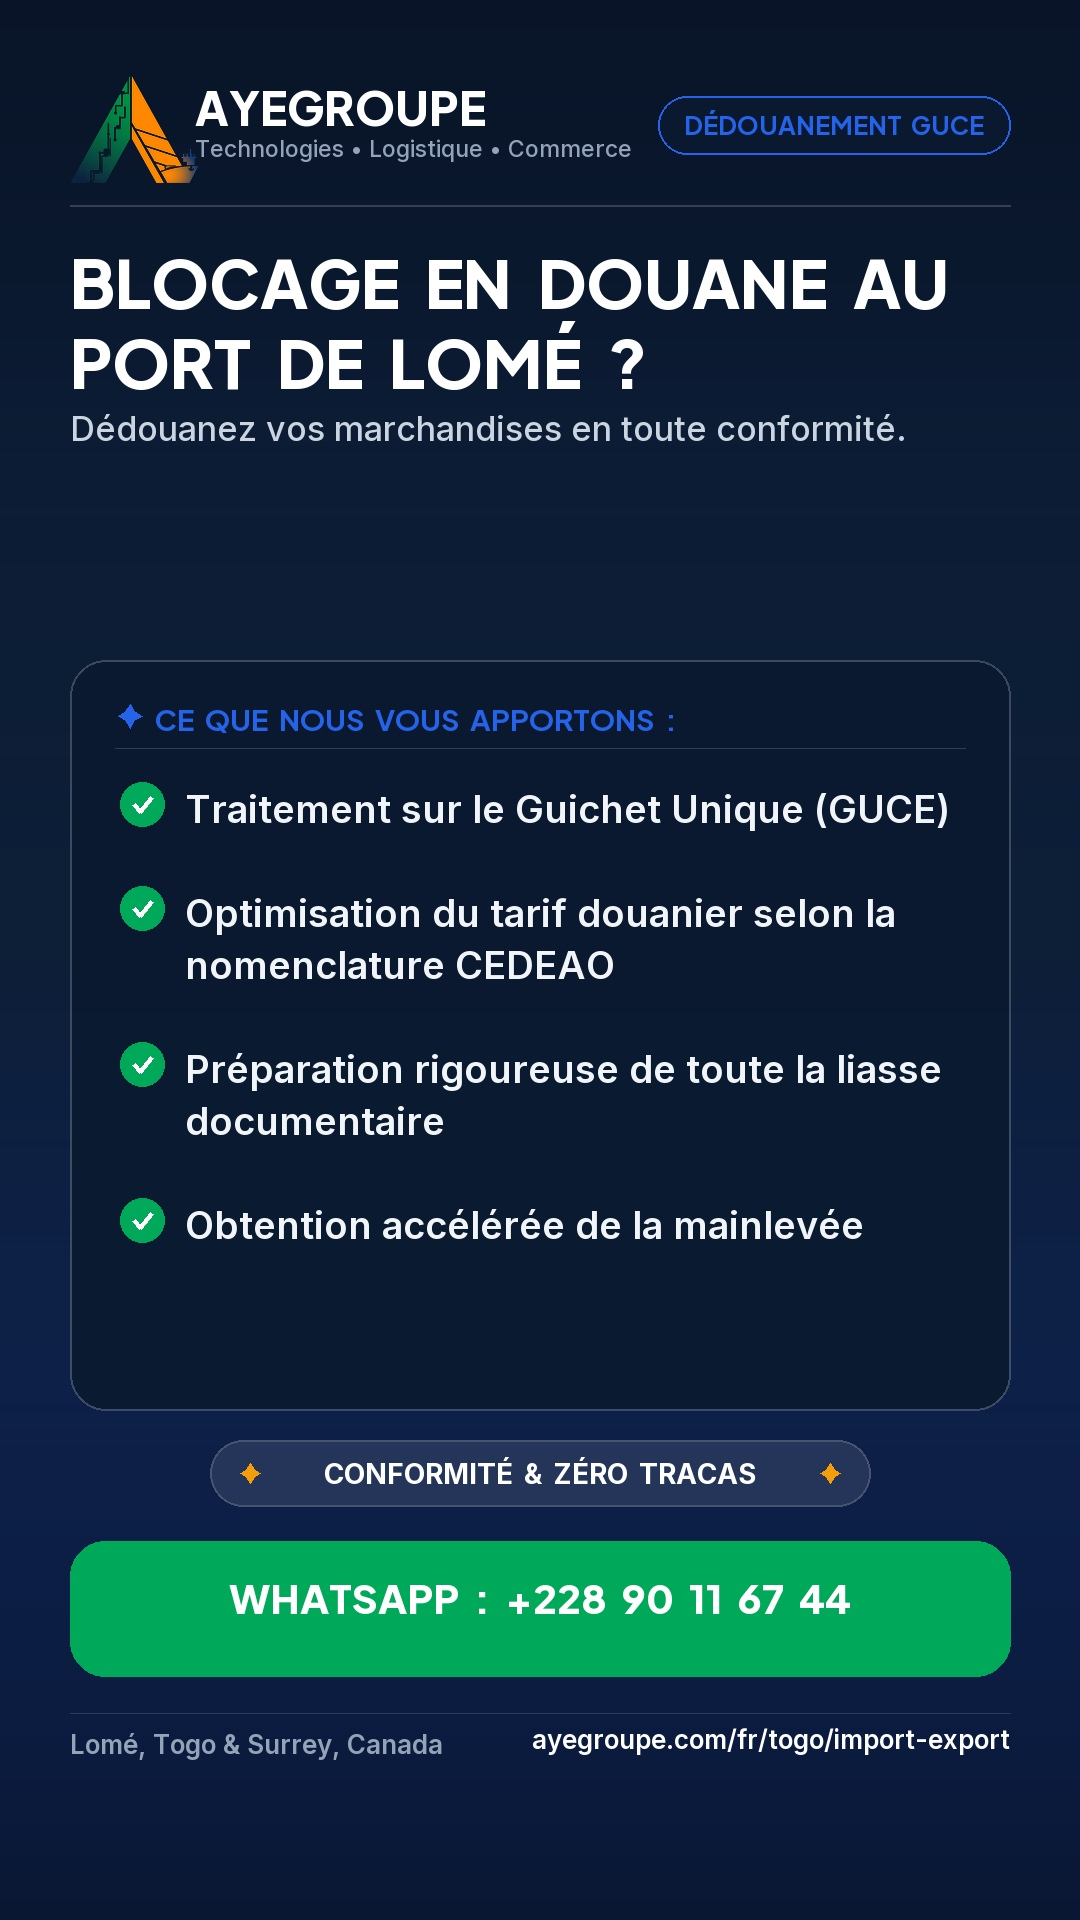
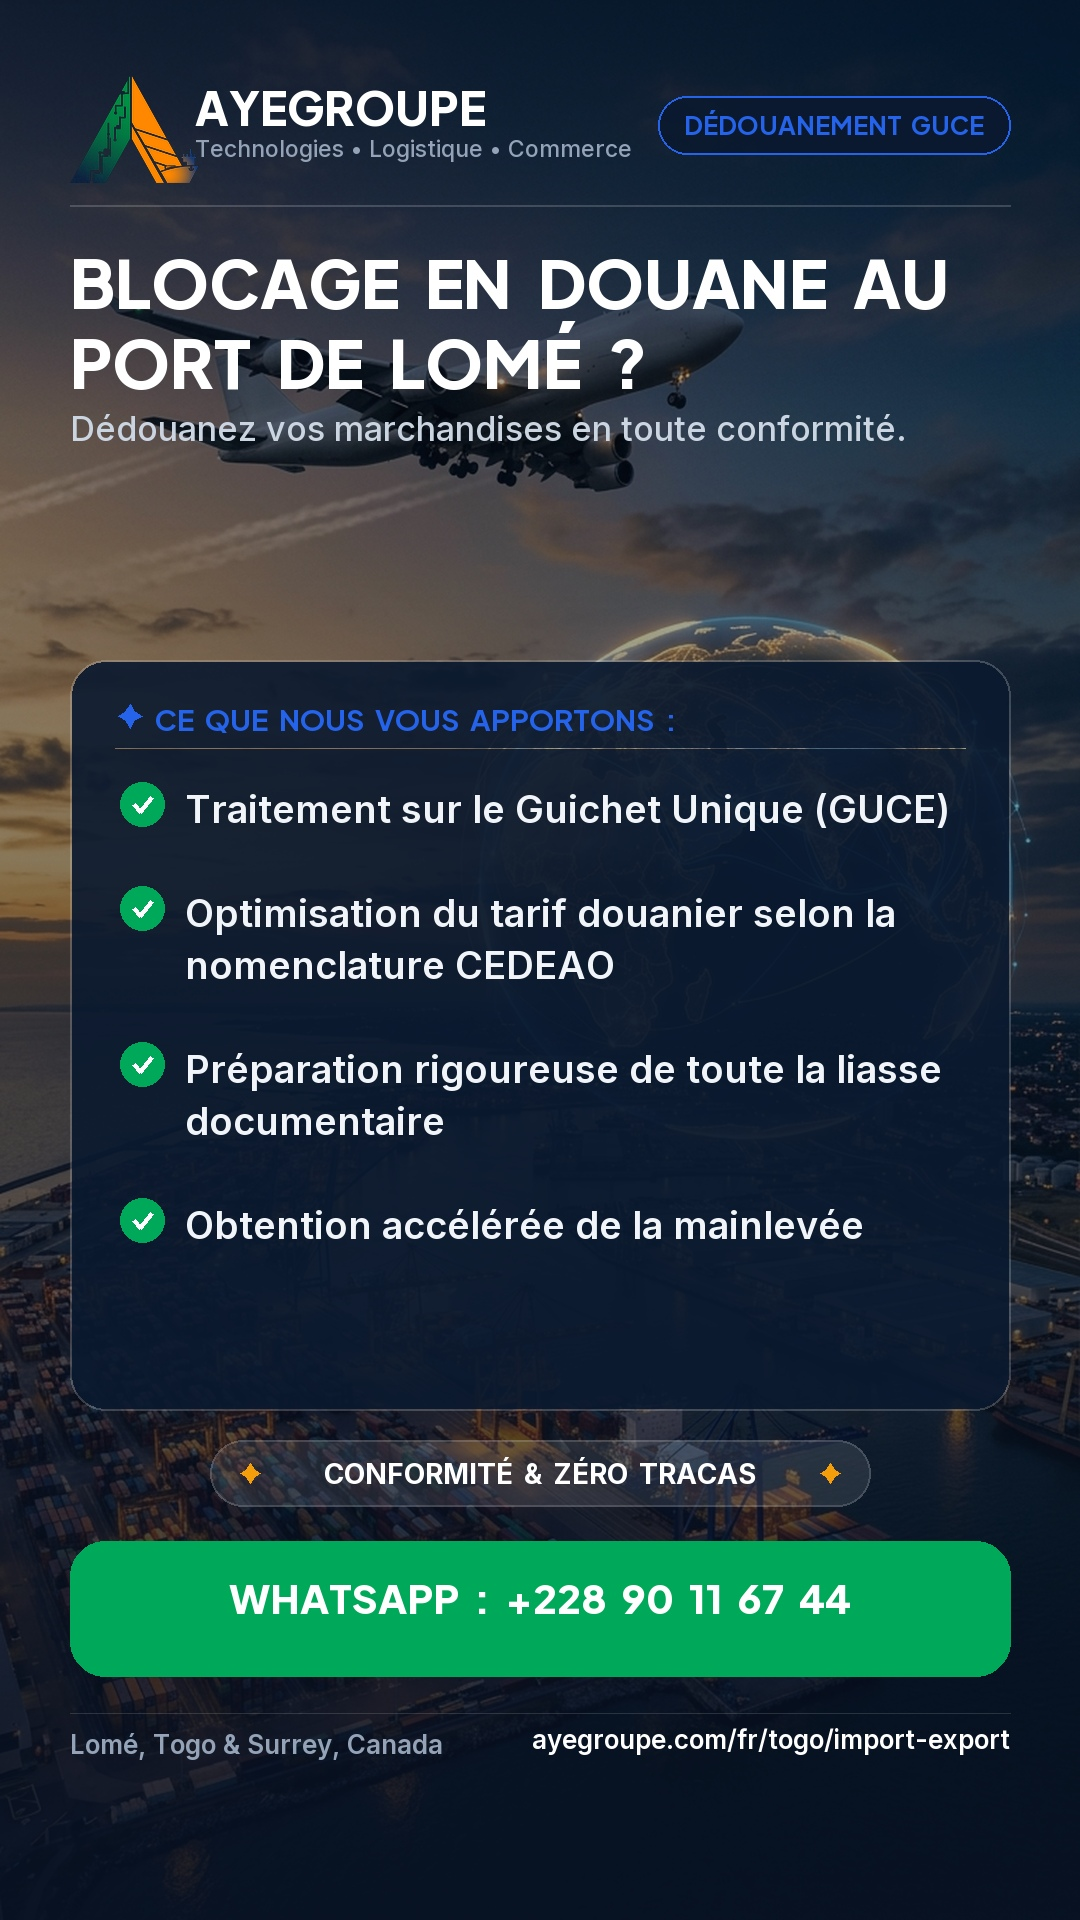
feat(tiktok): give every poster a background, and fit the tag
Dix-neuf des vingt-quatre affiches n'avaient qu'un degrade plat : seules
les cinq pour lesquelles une photo existait en portaient une. Le decor
est desormais choisi par categorie, si bien que les affiches d'un meme
pole partagent sa signature visuelle. Vingt-deux sur vingt-quatre en ont
une ; `contact` garde son degrade, ce qui la detache du lot.

Les cinq photos entrent dans le depot, sous scripts/photos, comme les
polices : elles vivaient dans un cache de l'IDE, et si ce dossier
disparaissait la generation retombait en silence sur les degrades.
photo_de() leve desormais une erreur plutot que de produire 24 fonds
plats sans prevenir.

Au passage, l'etiquette sous la carte n'avait aucun ajustement de taille,
contrairement au titre, aux puces et au CTA : « IMPRESSION & DESIGN
HAUTE DEFINITION » debordait de sa pastille et passait sous les etoiles.
Meme boucle que le CTA, en reservant la place des etoiles. Verifie sur
les 24 : aucun libelle au-dela de la limite de 536 px.

diff --git a/scripts/build_official_tiktok_images.py b/scripts/build_official_tiktok_images.py
@@ -1,5 +1,6 @@
 import io
 import json
+from pathlib import Path
 import os
 import re
 from PIL import Image, ImageDraw, ImageFont
@@ -297,7 +298,14 @@ def generate_tiktok_poster(
     # Decorative star on left and right of tag
     draw_mini_star(draw, tag_x + 40, tag_y + 33, size=10, fill=(245, 158, 11))
     draw_mini_star(draw, tag_x + tag_w - 40, tag_y + 33, size=10, fill=(245, 158, 11))
-    draw.text((tag_x + tag_w // 2, tag_y + 17), wide(tag_text), fill=(255, 255, 255), font=f_tag, anchor="mt")
+    # L'etiquette n'avait pas d'ajustement, contrairement au titre et au CTA :
+    # les libelles longs debordaient de la pastille et passaient sous les
+    # etoiles. On reserve la place des deux etoiles de chaque cote.
+    tag_label = wide(tag_text)
+    tag_max = tag_w - 2 * 62
+    while f_tag.getbbox(tag_label)[2] > tag_max and f_tag.size > 16:
+        f_tag = load_font('inter', f_tag.size - 1, 'Bold')
+    draw.text((tag_x + tag_w // 2, tag_y + 17), tag_label, fill=(255, 255, 255), font=f_tag, anchor="mt")
     
     # 8. CTA Button
     cta_y = tag_y + tag_h + 35
@@ -326,20 +334,33 @@ def generate_tiktok_poster(
     final_img.convert('RGB').save(output_path, quality=96)
     print(f"Generated: {output_path}")
 
-brain_dir = "C:/Users/HP/.gemini/antigravity-ide/brain/85fa634b-7d53-4338-b68e-8e6f2a90fa64"
+# Les decors vivent dans le depot, comme les polices : le generateur doit
+# rester reproductible. Ils pointaient vers un cache de l'IDE — si ce dossier
+# disparaissait, la generation retombait en silence sur les degrades.
+PHOTOS_DIR = Path(__file__).resolve().parent / "photos"
 
-# Les 24 affiches sont generees depuis public/tiktok-visuals.json : meme source
-# que le studio, pour que le texte publie corresponde toujours a ce qui est
-# affiche a l'ecran. Les visuels sans photo recoivent un degrade thematique,
-# afin que la serie reste homogene.
-
-PHOTOS = {
-    1:  f"{brain_dir}/bg_studio_creatif_clean_1790984870355.jpg",
-    6:  f"{brain_dir}/bg_logistique_lome_clean_1790984885824.jpg",
-    11: f"{brain_dir}/bg_import_export_clean_1790984900206.jpg",
-    15: f"{brain_dir}/bg_it_bureautique_clean_1790984930525.jpg",
-    20: f"{brain_dir}/bg_ayeprep_saas_clean_1790984980813.jpg",
+# Une photo par pole. Les affiches d'une meme categorie partagent son decor :
+# cela leur donne une signature visuelle commune et evite 19 fonds plats.
+# `contact` n'en a pas et garde son degrade, ce qui la detache du lot.
+PHOTOS_PAR_CATEGORIE = {
+    "creative":    "creative.jpg",
+    "logistics":   "logistics.jpg",
+    "trade":       "trade.jpg",
+    "it_hardware": "it_hardware.jpg",
+    "saas_tech":   "saas_tech.jpg",
 }
+
+
+def photo_de(categorie):
+    """Chemin du decor de la categorie, ou None si elle n'en a pas / fichier absent."""
+    nom = PHOTOS_PAR_CATEGORIE.get(categorie)
+    if not nom:
+        return None
+    chemin = PHOTOS_DIR / nom
+    if not chemin.exists():
+        raise FileNotFoundError(f"decor manquant : {chemin}")
+    return str(chemin)
+
 
 SLUGS = {
     "creative": "studio-creatif", "logistics": "logistique", "trade": "import-export",
@@ -369,7 +390,7 @@ for v in visuals:
     out = f"public/images/tiktok/tiktok-{v['id']:02d}-{slug}.jpg"
 
     generate_tiktok_poster(
-        bg_path=PHOTOS.get(v['id']),
+        bg_path=photo_de(v['category']),
         output_path=out,
         category_badge=(v.get('badge') or v['categoryName']).upper(),
         badge_color=accent,
